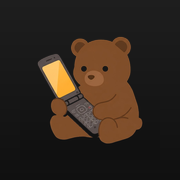
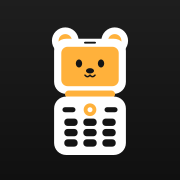
アイコンをガラケー型のクマ（平らな絵）に変更
Claude-Session: https://claude.ai/code/session_018AqJEQkJoCbTvsm3dQsGPr

Changed region(s): [[0.1944, 0.1389, 0.8056, 0.8611]]

diff --git a/docs/index.html b/docs/index.html
@@ -164,7 +164,7 @@ function LGBar(nav,o){
 <div class="toast" id="toast"></div>
 <script>
 "use strict";
-const VERSION = "2026-11-22c";
+const VERSION = "2026-11-22d";
 const API_URL = "https://script.google.com/macros/s/AKfycbzLj1WVVsp_Y381rZHvkWM8RIqSIojozl7S2J0zHbDb8ioOI6-VDFV9UpNWZ6zSI-Pb/exec";
 const CLIENT_ID = "944595939498-b4ei4dlbcuap8v4o0ellepfj41m4j3j8.apps.googleusercontent.com";
 const VAPID = "BHtezYeb2IHihwwlphfDX6v8KM-cvxyr6_UBOEINt8t_DDfuC47Mz65hJ2t74aJCSSAVkMNb8_dkykCgJryvbZ8";
